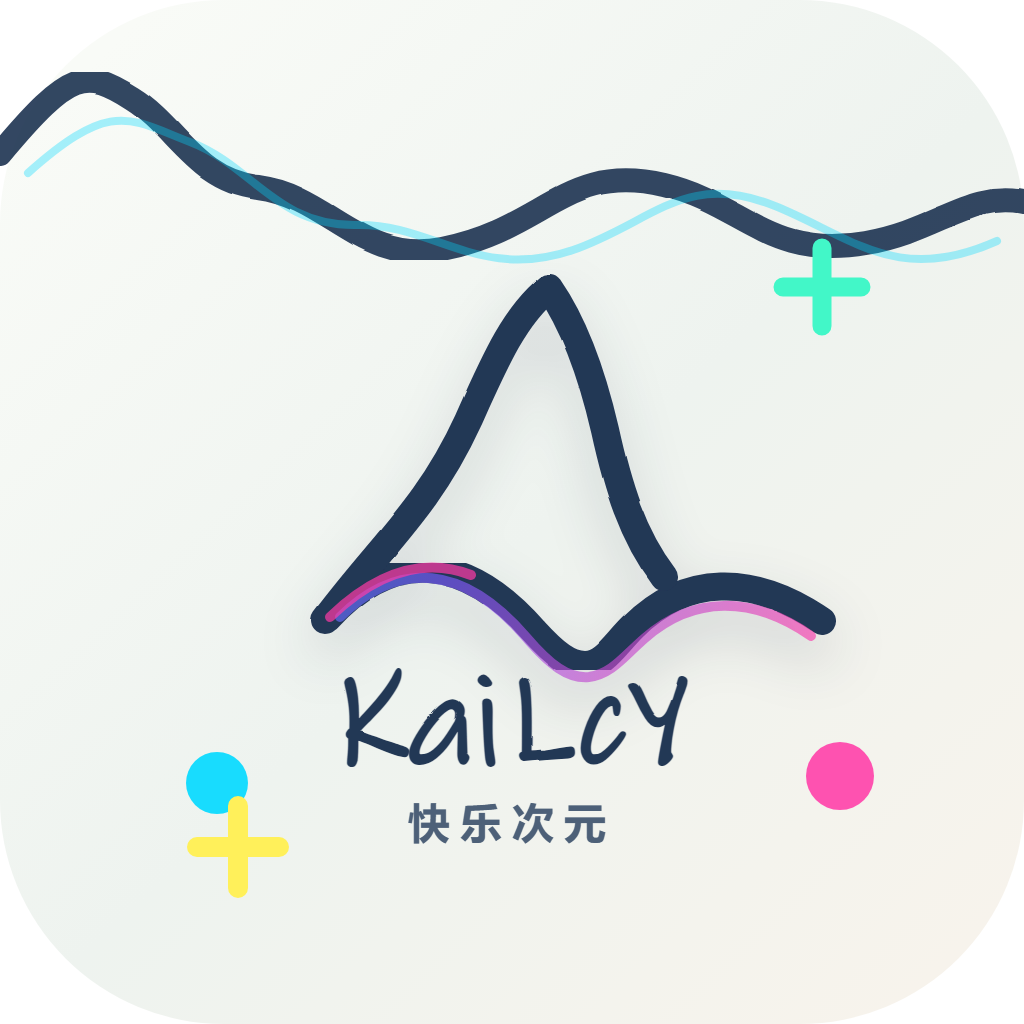
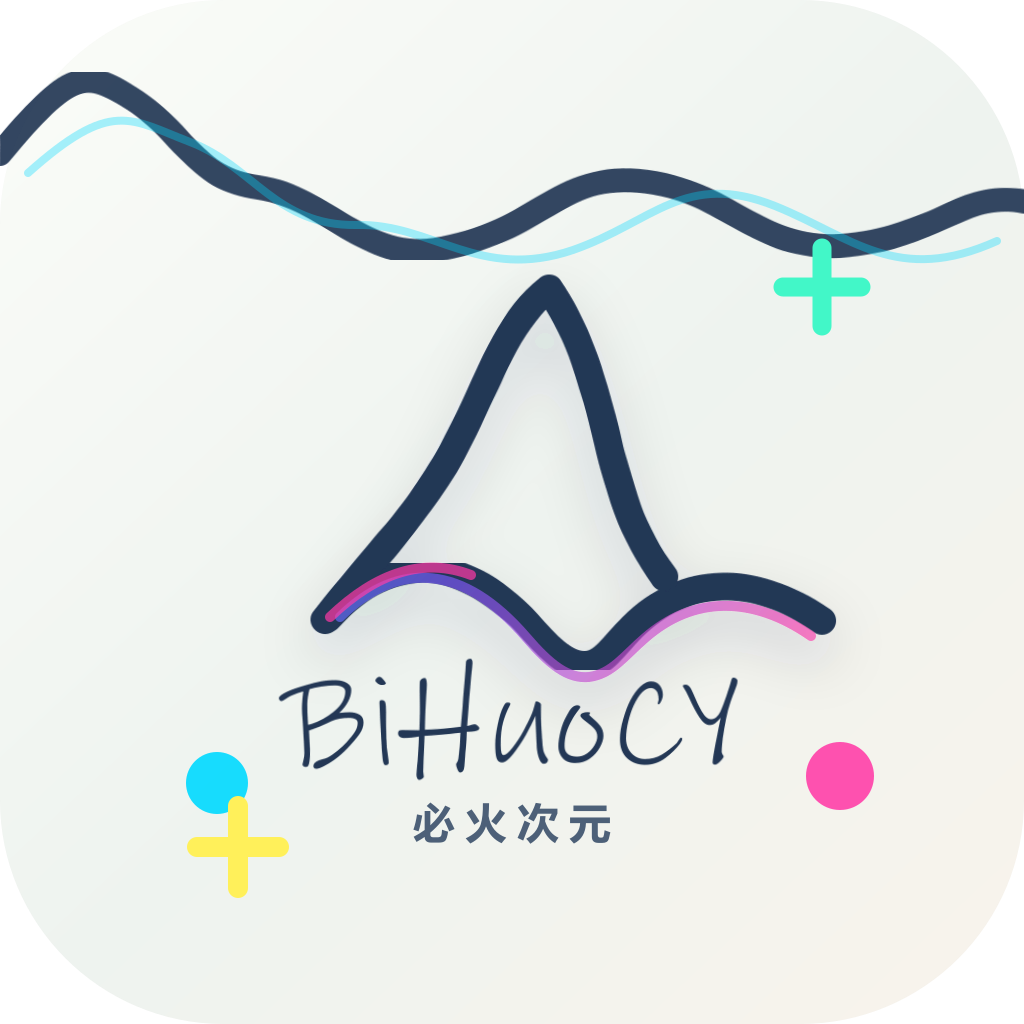
Update sketch brand text to BiHuoCY

Changed region(s): [[0.2812, 0.6562, 0.7188, 0.75], [0.375, 0.7812, 0.5938, 0.8438]]

diff --git a/assets/brand/README.md b/assets/brand/README.md
@@ -6,7 +6,7 @@
 - `happy-dimension-logo-1800x520.png`：横版 logo PNG。
 - `happy-dimension-avatar-v2.svg` / `happy-dimension-avatar-v2-1024.png`：更潮玩、二次元的头像版本。
 - `happy-dimension-logo-v2.svg` / `happy-dimension-logo-v2-1800x560.png`：更潮玩、二次元的横版 logo 版本。
-- `happy-dimension-avatar-v3-sketch.svg` / `happy-dimension-avatar-v3-sketch-1024.png`：参照手绘草稿的 KaiLcY 线稿风头像。
-- `happy-dimension-logo-v3-sketch.svg` / `happy-dimension-logo-v3-sketch-1800x640.png`：参照手绘草稿的 KaiLcY 线稿风横版 logo。
+- `happy-dimension-avatar-v3-sketch.svg` / `happy-dimension-avatar-v3-sketch-1024.png`：参照手绘草稿的 BiHuoCY 线稿风头像。
+- `happy-dimension-logo-v3-sketch.svg` / `happy-dimension-logo-v3-sketch-1800x640.png`：参照手绘草稿的 BiHuoCY 线稿风横版 logo。
 
 设计关键词：必火次元、潮玩周边、维度入口、盲盒/手办感、年轻明亮。